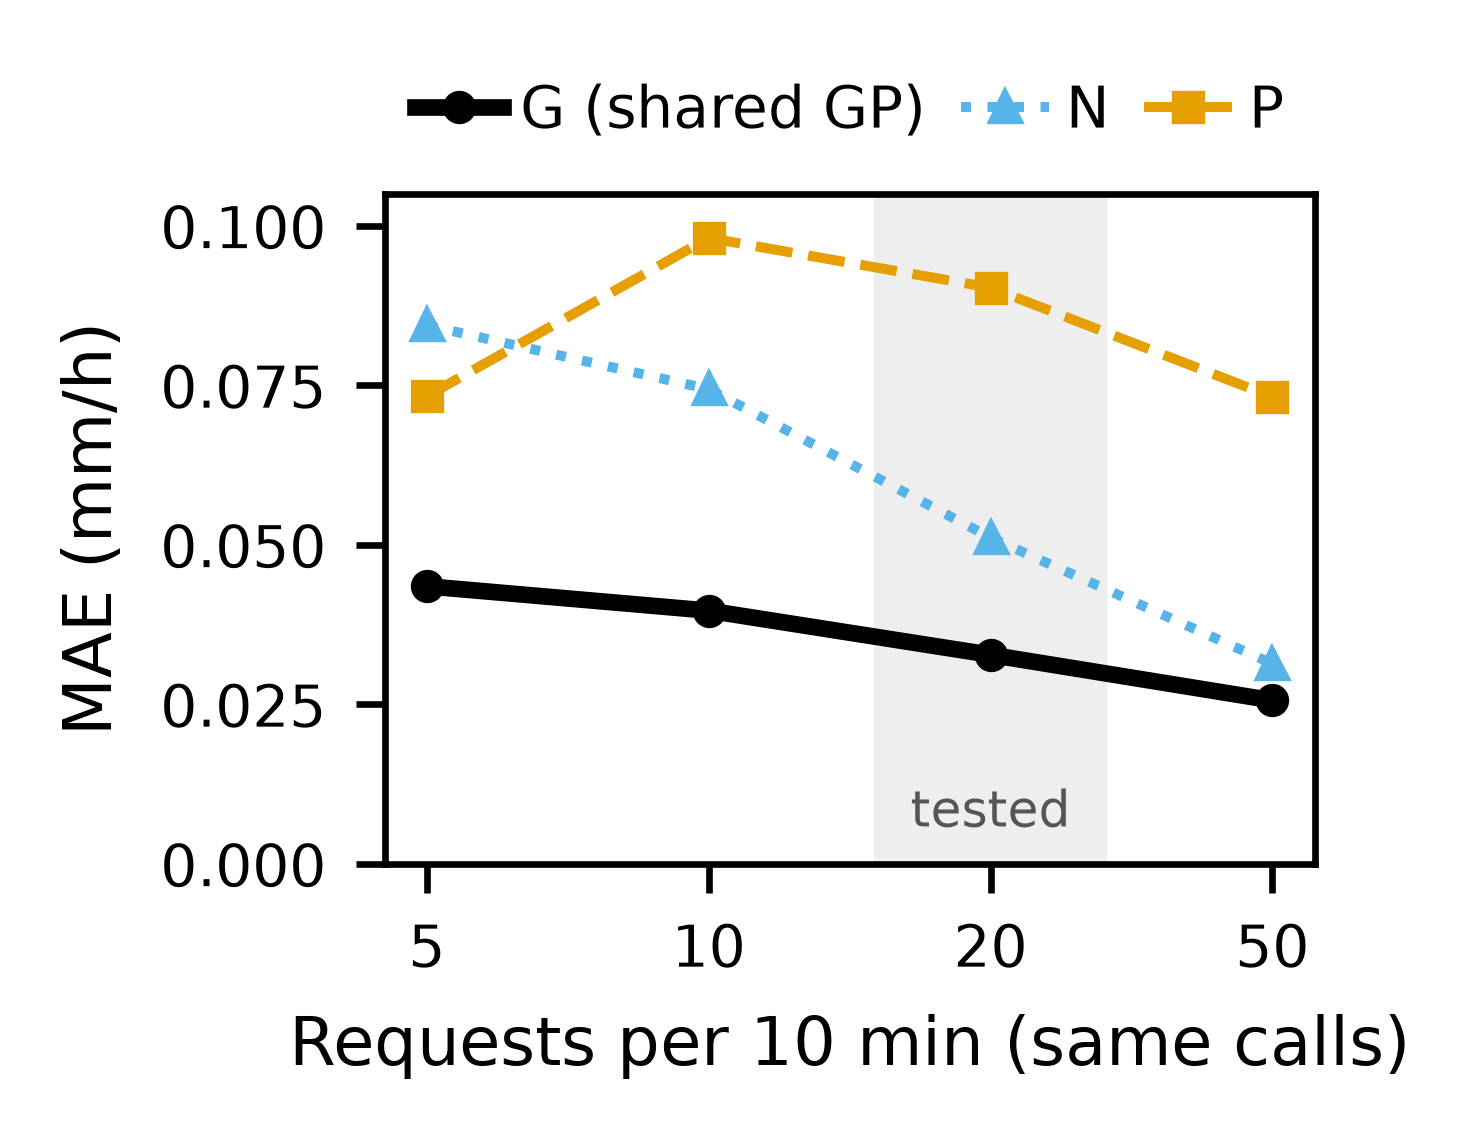
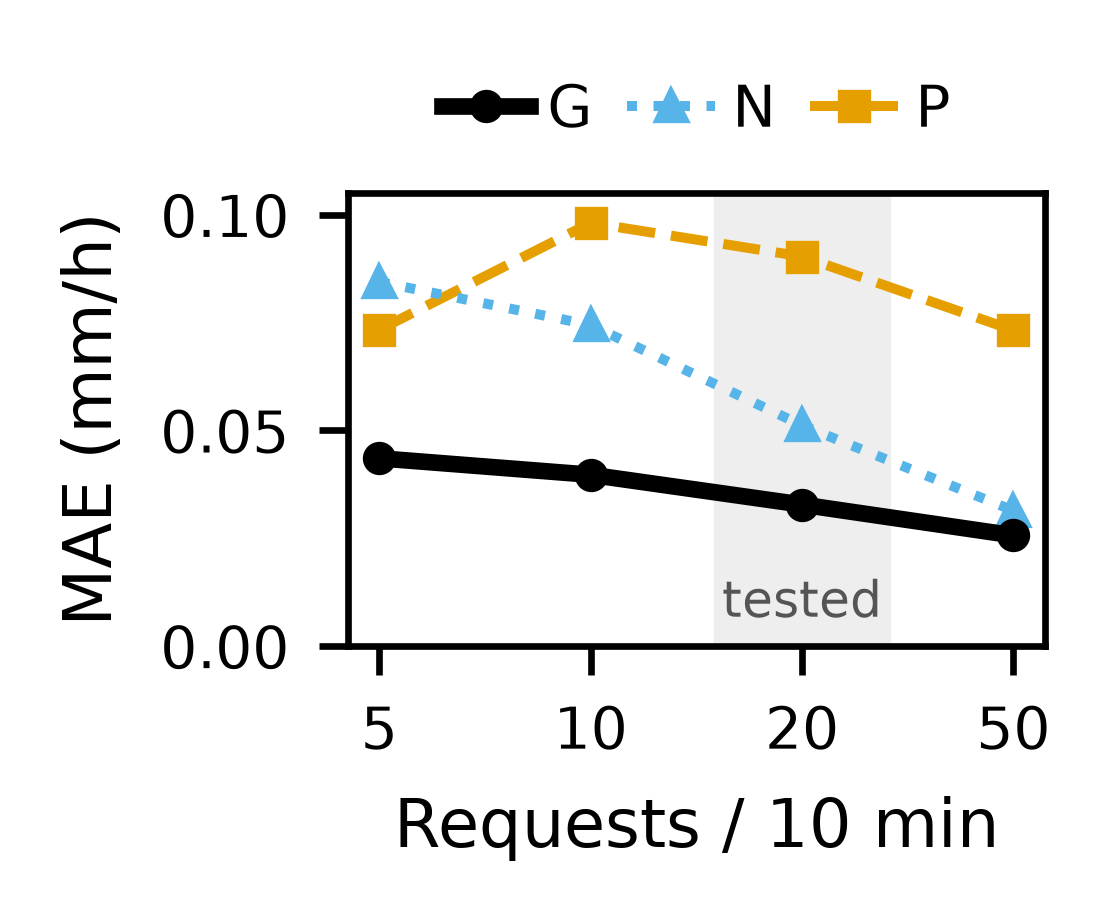
fix: 인쇄 그림을 놓이는 폭에서 다시 그려 글자 7pt 유지

Changed region(s): [[0.0306, 0.0607, 0.9802, 0.9404], [0.6432, 0.6371, 0.7964, 0.6674], [0.3982, 0.2427, 0.4288, 0.273]]

diff --git a/scripts/figures/print_sizes.py b/scripts/figures/print_sizes.py
@@ -20,16 +20,20 @@ import style  # noqa: E402
 RESULTS = os.path.join(ROOT, "results")
 OUT = os.path.join(RESULTS, "figures", "print")
 # (module, figure size in inches = printed size): one panel 6.6 cm, two panels 7.4 cm.
-JOBS = [(f1_curve, (2.6, 1.85)), (f10_offer, (2.9, 1.9))]   # F9 crowds at this width: the original is used
+# The drawn size excludes ~0.7 cm of axis labels that bbox="tight" adds, so a figure placed at W cm is drawn W - 0.7
+# cm wide (2026-10-17: F1 is placed at 6.0 cm in the proceedings and 5.6 cm in the blind paper).
+JOBS = [(f1_curve, (2.09, 1.3), ""), (f1_curve, (1.93, 1.2), "blind"),
+        (f10_offer, (2.9, 1.9), "")]   # F9 crowds at this width: the original is used
 
 
 def main():
-    os.makedirs(OUT, exist_ok=True)
     saved = style.SINGLE
     try:
-        for module, size in JOBS:
+        for module, size, sub in JOBS:
+            out = os.path.join(OUT, sub)
+            os.makedirs(out, exist_ok=True)
             style.SINGLE = size
-            for path in module.make(RESULTS, OUT):
+            for path in module.make(RESULTS, out):
                 print(path)
     finally:
         style.SINGLE = saved

diff --git a/scripts/figures/f1_curve.py b/scripts/figures/f1_curve.py
@@ -22,13 +22,15 @@ def _draw(rows, xcol, xlabel, path, xticks=None, ylim=None):
         x = [p[0] for p in pts]
         style.errorbar(ax, x, [float(p[1]["mae"]) for p in pts], [float(p[1]["ci_lo"]) for p in pts],
                        [float(p[1]["ci_hi"]) for p in pts], m, style.METHOD_STYLE[m])
+    small = style.SINGLE[0] < 2.3                 # print-size copies (print_sizes.py); the frozen 3.35 in figure is unchanged
     ax.set_xlabel(xlabel)
-    ax.set_ylabel("Route-mean precipitation MAE (mm/h)")
+    ax.set_ylabel("MAE (mm/h)" if small else "Route-mean precipitation MAE (mm/h)")
     if xticks:
         ax.set_xticks(xticks)
     if ylim:
         ax.set_ylim(*ylim)
-    ax.legend(loc="lower center", bbox_to_anchor=(0.5, 1.02), ncol=4, frameon=False, handlelength=2.2)
+    ax.legend(loc="lower center", bbox_to_anchor=(0.5, 1.02), ncol=4, frameon=False,
+              handlelength=1.4 if small else 2.2, columnspacing=0.8 if small else 2.0, handletextpad=0.4 if small else 0.8)
     return style.save(fig, path)
 
 

diff --git a/scripts/figures/f12_shared_gp.py b/scripts/figures/f12_shared_gp.py
@@ -22,8 +22,8 @@ OUT = os.path.join(ROOT, "results", "figures", "print", "F12_shared_gp.png")
 RATES = [5, 10, 20, 50]
 SERIES = [("P", "P", style.SERIES_STYLE[1]),
           ("N", "N", style.SERIES_STYLE[2]),
-          ("G", "G (shared GP)", {**style.SERIES_STYLE[0], "linewidth": 2.0})]
-SIZE = (2.0, 1.45)                     # inches = the printed width (5.1 cm), so 7 pt stays 7 pt
+          ("G", "G", {**style.SERIES_STYLE[0], "linewidth": 2.0})]
+SIZE = (1.5, 0.98)                     # inches: + ~0.7 cm of labels = the printed width (4.7 cm), so 7 pt stays 7 pt
 
 
 def series(runs, key):
@@ -42,7 +42,7 @@ def make(src=SRC, out=OUT):
     ax.text(2, 0.004, "tested", ha="center", va="bottom", fontsize=6, color="#555555")
     ax.set_xticks(x)
     ax.set_xticklabels([str(n) for n in RATES])
-    ax.set_xlabel("Requests per 10 min (same calls)")
+    ax.set_xlabel("Requests / 10 min")
     ax.set_ylabel("MAE (mm/h)")
     ax.set_ylim(0, 0.105)
     h, l = ax.get_legend_handles_labels()
